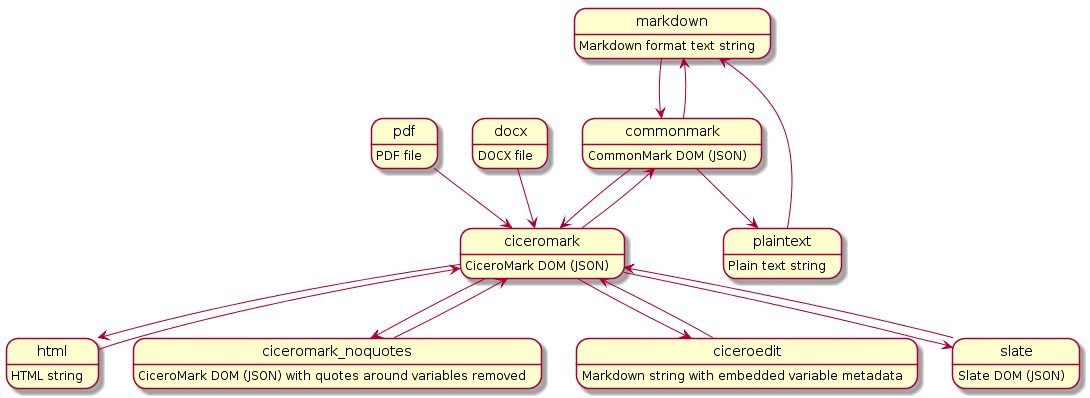
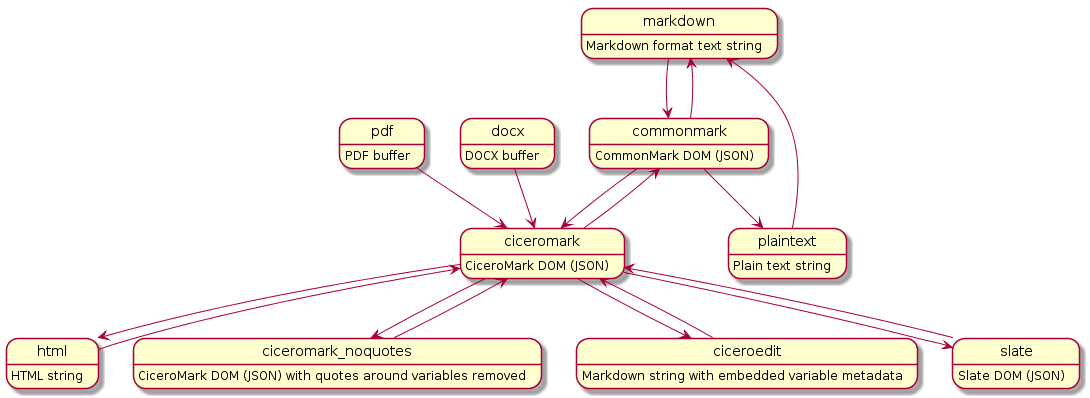
(chore) remove unecessary await and improve docs

Changed region(s): [[0.3119, 0.0, 0.7798, 0.7236], [0.655, 0.4523, 0.6862, 0.5427]]

diff --git a/packages/markdown-transform/lib/transform.js b/packages/markdown-transform/lib/transform.js
@@ -98,17 +98,17 @@ const transformationGraph = {
         }
     },
     pdf: {
-        docs: 'PDF file',
-        ciceromark: async (input) => {
+        docs: 'PDF buffer',
+        ciceromark: (input) => {
             const pdfTransformer = new PdfTransformer();
-            return await pdfTransformer.toCiceroMark(input, 'json');
+            return pdfTransformer.toCiceroMark(input, 'json');
         },
     },
     docx: {
-        docs: 'DOCX file',
+        docs: 'DOCX buffer',
         ciceromark: async (input) => {
             const docxTransformer = new DocxTransformer();
-            return await docxTransformer.toCiceroMark(input, 'json');
+            return docxTransformer.toCiceroMark(input, 'json');
         },
     },
     html: {
